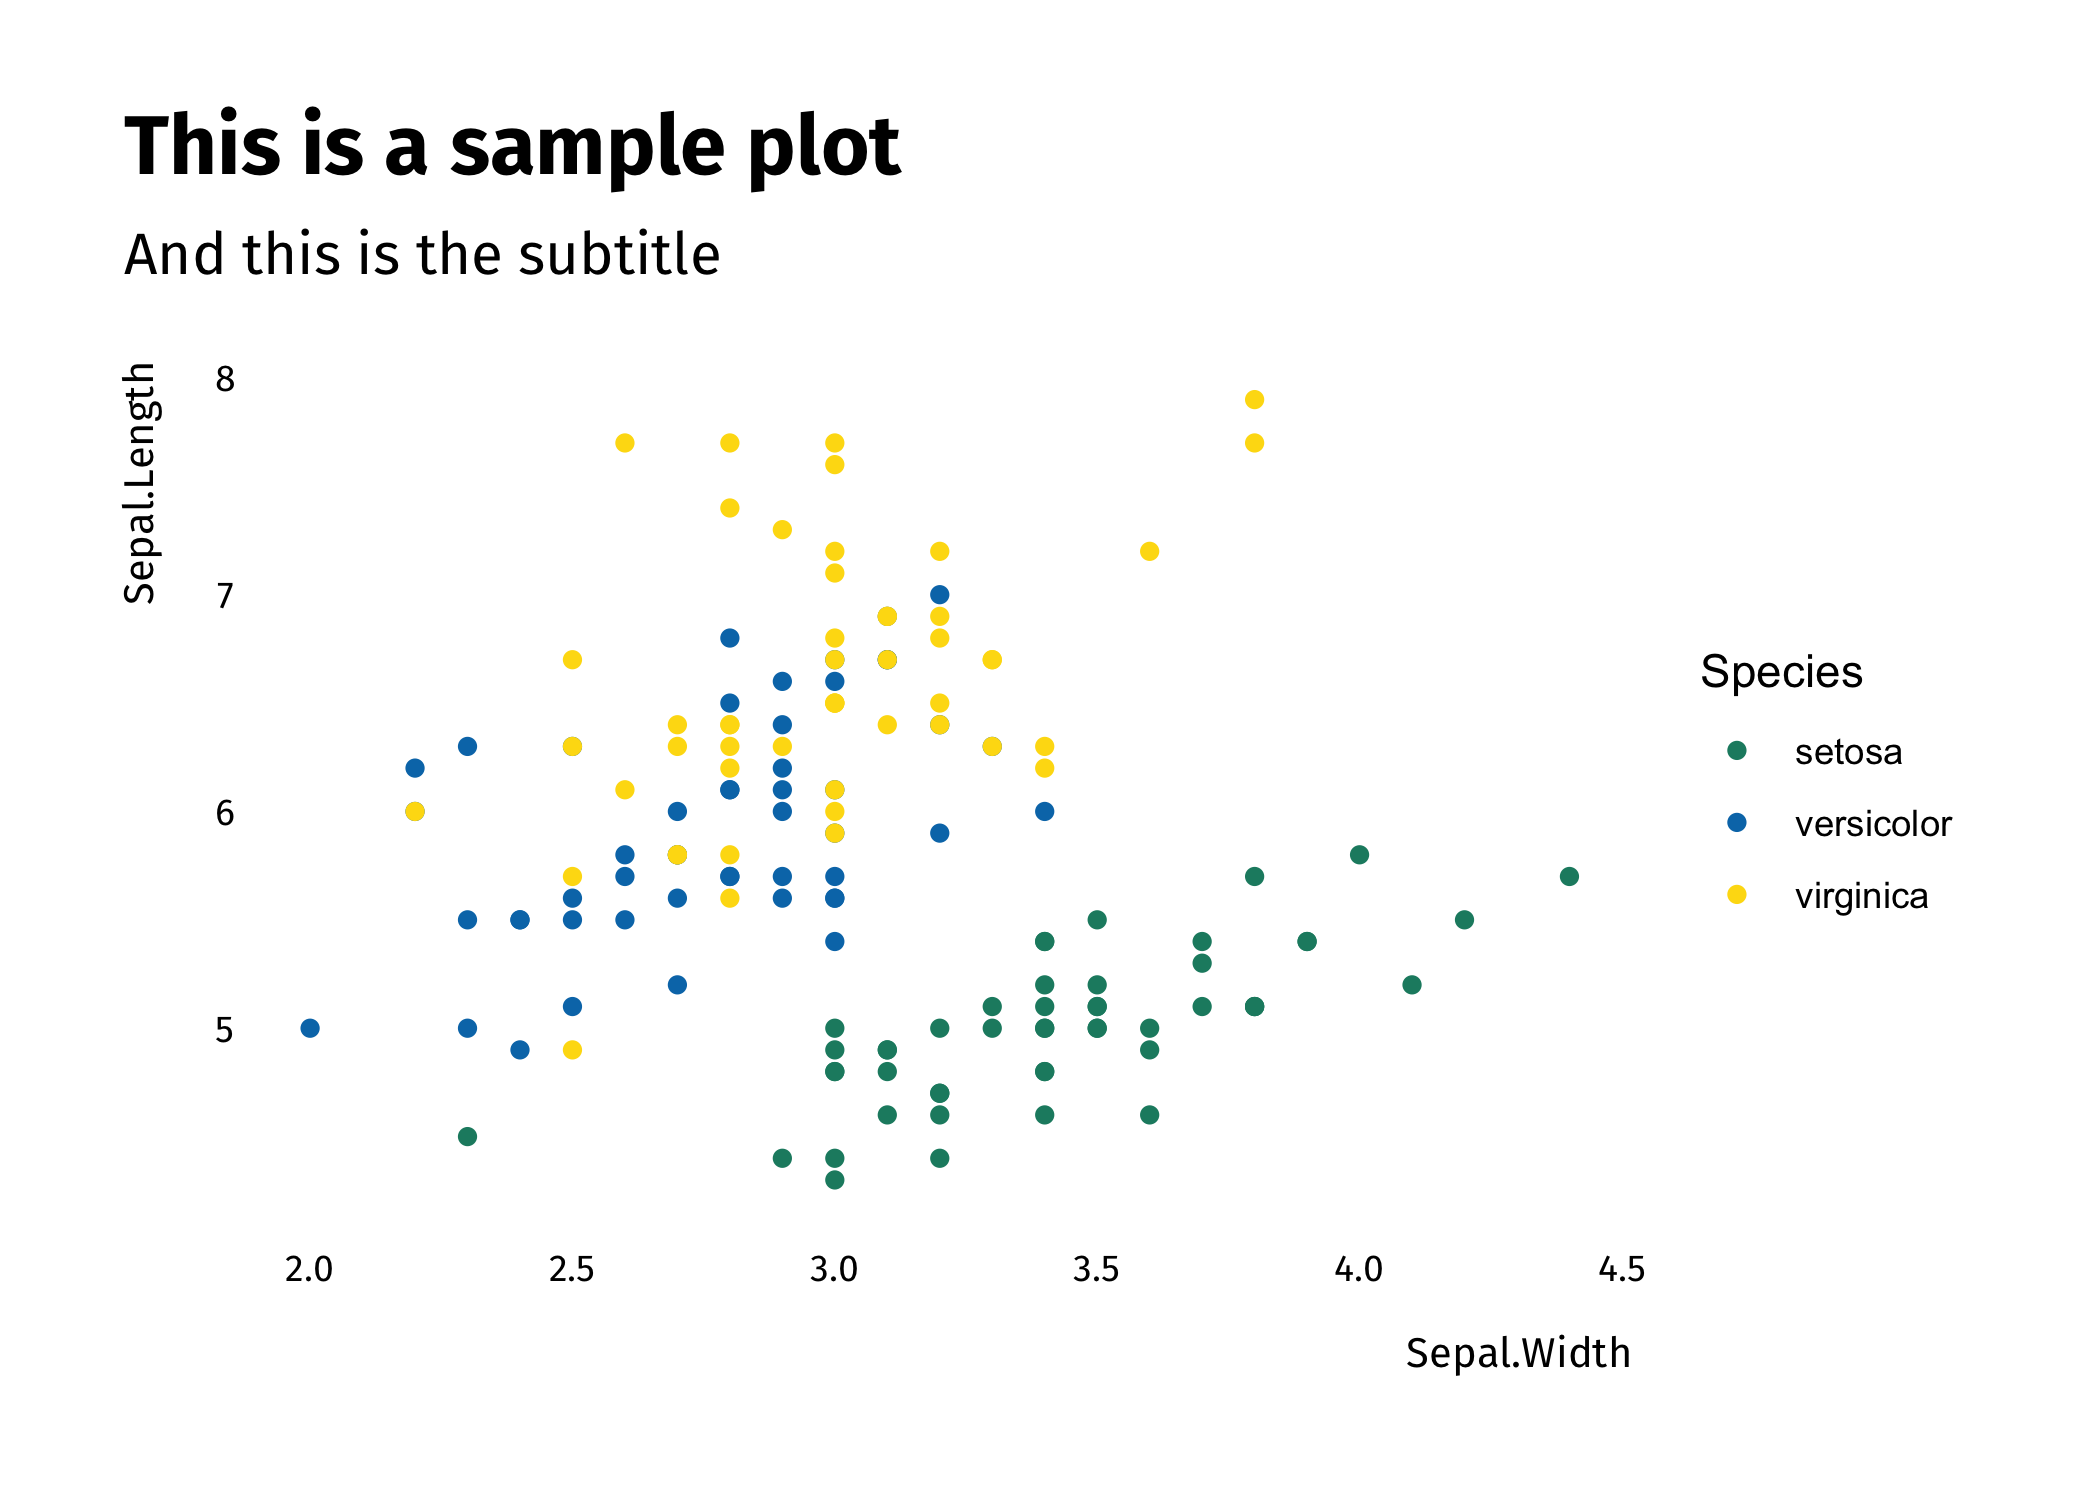
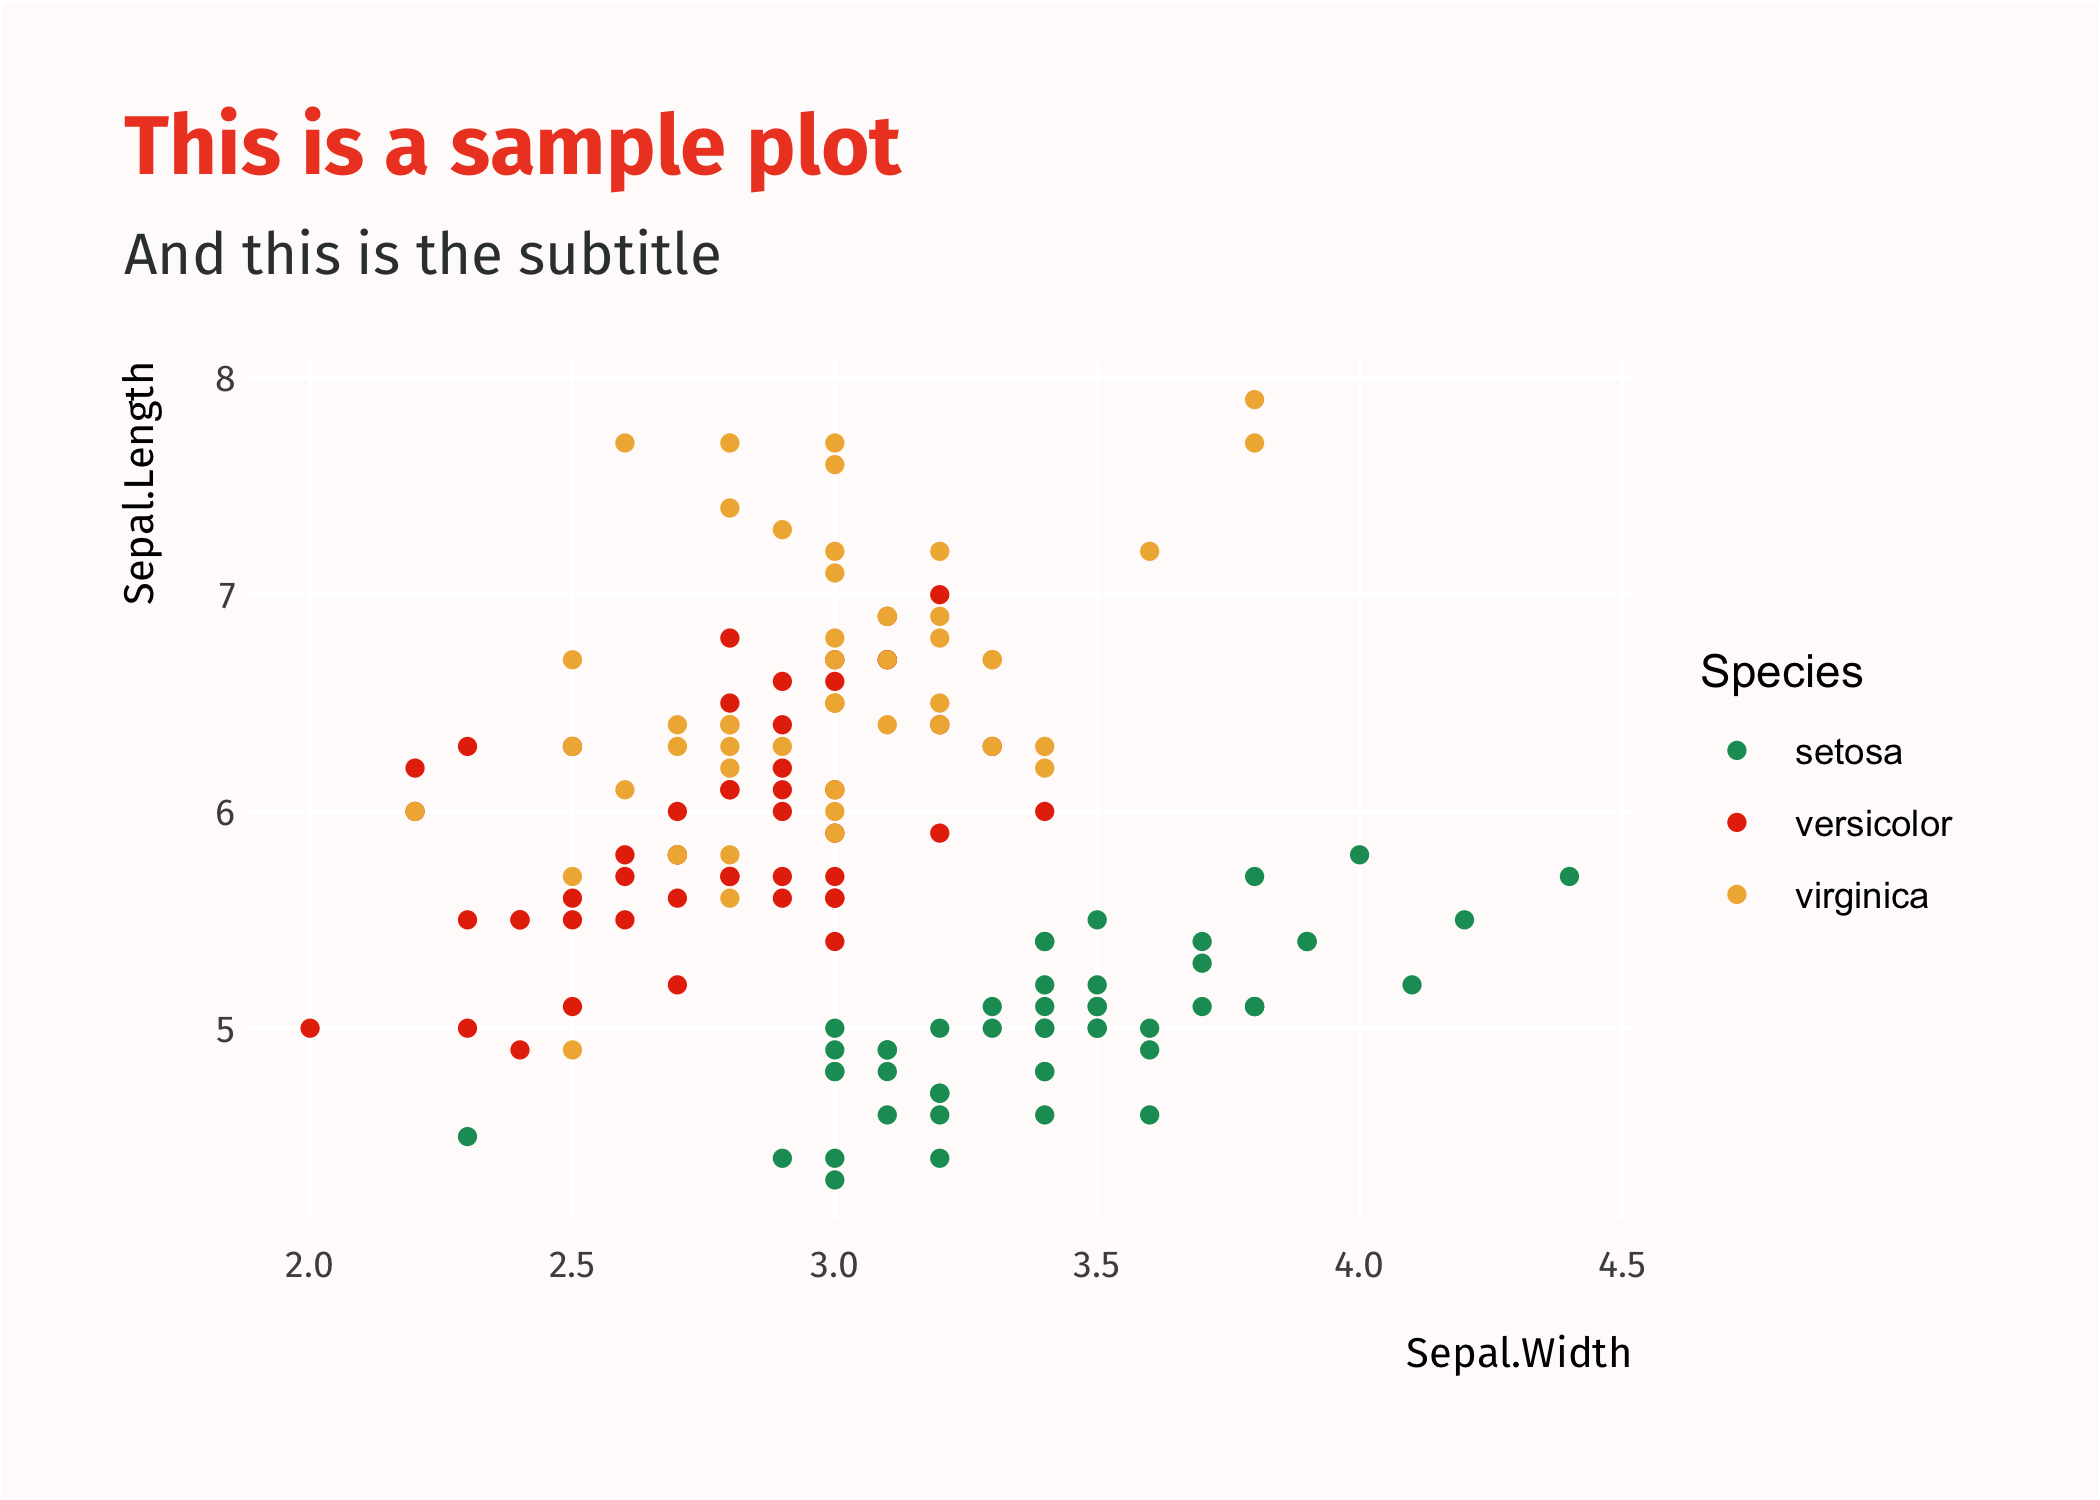
Add more themes

diff --git a/README.md b/README.md
@@ -58,6 +58,16 @@ ggplot(iris, aes(Sepal.Width, Sepal.Length)) +
 
 <img src="man/figures/README-example2-1.png" width="100%" />
 
+``` r
+ggplot(iris, aes(Sepal.Width, Sepal.Length)) + 
+  geom_point() +
+  labs(title = "This is a sample plot",
+       subtitle = "And this is the subtitle") +
+  theme_42_bright()
+```
+
+<img src="man/figures/README-example2b-1.png" width="100%" />
+
 ## Example: palettes
 
 Now, let’s color it with one of our palettes. First we can take a look
@@ -76,8 +86,8 @@ ggplot(iris, aes(Sepal.Width, Sepal.Length, color = Species)) +
   geom_point() +
   labs(title = "This is a sample plot",
        subtitle = "And this is the subtitle") +
-  theme_42() +
-  scale_color_manual(values = palette_42("i42"))
+  theme_42_bright() +
+  scale_color_manual(values = palette_42("i42_bright"))
 ```
 
 <img src="man/figures/README-example4-1.png" width="100%" />
